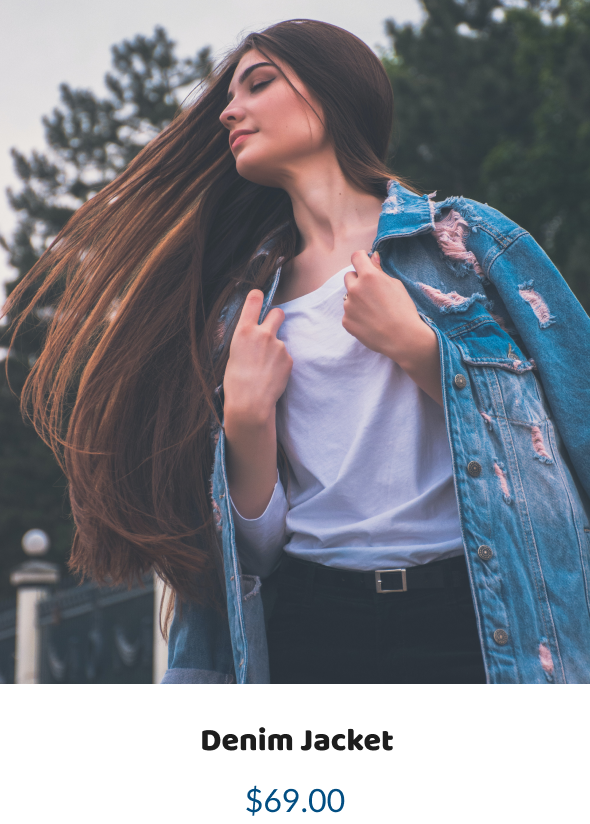
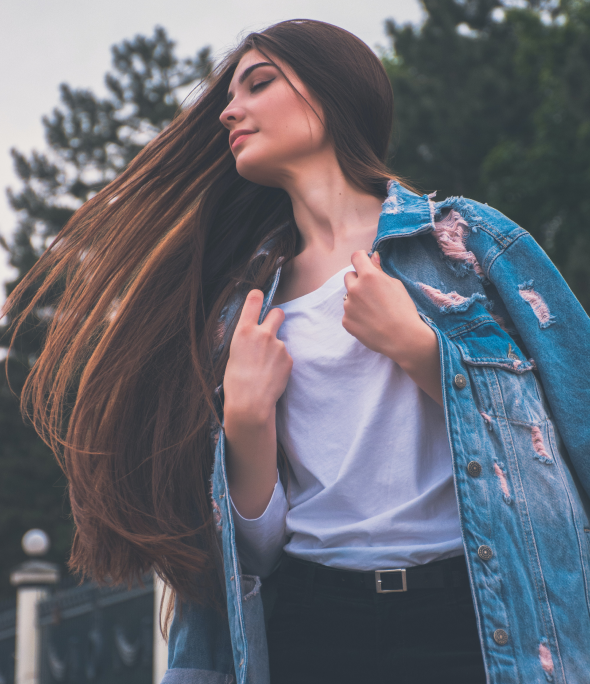
feat: consume the fake api

diff --git a/src/pages/home.tsx b/src/pages/home.tsx
@@ -8,9 +8,14 @@ import { Footer } from "../components/footer/footer";
 import { Baner } from "../components/baner/baner";
 import { Sidebar } from "../components/sidebar/sidebar";
 import { SectionComponent } from "../components/home/sectionComponent";
+import { Products } from "../components/products";
 
 const Home = () => {
   const [isOpen, setIsOpen] = useState<boolean>(false);
+
+  const firstEightProducts = Products.slice(0, 8); // pega os primeiro 8 produtos do array; ps: array com 12 produtos;
+
+  const lastFourProducts = Products.slice(8, 12); // pega os ultimos 4 produtos do array; ps: array com 12 produtos;
 
   return(
     <main onClick={() => setIsOpen(false)}>
@@ -42,46 +47,14 @@ const Home = () => {
         title="Discover NEW Arrivals"
         description="Recently added shirts!"
       >
-          <Card.Root>
-            <Card.Image />
-            <Card.Data/>
+
+        {firstEightProducts.map(item => (
+          <Card.Root key={item.id}>
+            <Card.Image src={item.image} alt={item.name} />
+            <Card.Data name={item.name} value={item.price} />
           </Card.Root>
+        ))}
           
-          <Card.Root>
-            <Card.Image />
-            <Card.Data/>
-          </Card.Root>
-          
-          <Card.Root>
-            <Card.Image />
-            <Card.Data/>
-          </Card.Root>
-          
-          <Card.Root>
-            <Card.Image />
-            <Card.Data/>
-          </Card.Root>
-          
-          <Card.Root>
-            <Card.Image />
-            <Card.Data/>
-          </Card.Root>
-          
-          <Card.Root>
-            <Card.Image />
-            <Card.Data/>
-          </Card.Root>
-          
-          <Card.Root>
-            <Card.Image />
-            <Card.Data/>
-          </Card.Root>
-          
-          <Card.Root>
-            <Card.Image />
-            <Card.Data/>
-          </Card.Root>
-        
       </SectionComponent>
 
         <Information.Root>
@@ -121,25 +94,14 @@ const Home = () => {
         title="Top Sellers"
         description="Browse our top-selling products"
       >
-          <Card.Root>
-            <Card.Image />
-            <Card.Data/>
-          </Card.Root>
-          
-          <Card.Root>
-            <Card.Image />
-            <Card.Data/>
-          </Card.Root>
-          
-          <Card.Root>
-            <Card.Image />
-            <Card.Data/>
-          </Card.Root>
-          
-          <Card.Root>
-            <Card.Image />
-            <Card.Data/>
-          </Card.Root>
+        {lastFourProducts.map(item => {
+          return (
+            <Card.Root key={item.id}>
+              <Card.Image src={item.image} alt={item.name} />
+              <Card.Data name={item.name} value={item.price} />
+            </Card.Root>
+          )
+        })}
 
       </SectionComponent>
         

diff --git a/src/components/products.ts b/src/components/products.ts
@@ -11,7 +11,14 @@ import product10 from "../../public/products/product10.png";
 import product11 from "../../public/products/product11.png";
 import product12 from "../../public/products/product12.png";
 
-const Products = [
+interface ProductsProps {
+  id: number;
+  name: string;
+  price: number,
+  image: string;
+}
+
+const Products: ProductsProps[] = [
   {
     id: 1,
     name: "Plain White Shirt",

diff --git a/src/components/Card-Item/image.tsx b/src/components/Card-Item/image.tsx
@@ -6,8 +6,8 @@ interface ImageProps extends ImgHTMLAttributes<HTMLImageElement> {
 }
 
 const Image = ({ src, alt }: ImageProps) => {
-  return <img src="https://www.next.com.az/nxtcms/resource/blob/5821504/ee0fc6a294be647924fa5f5e7e3df8e9/hoodies-data.jpg"
-    alt="Example image"
+  return <img src={ src }
+    alt={ alt }
     className=" w-full h-full object-cover object-top" />
 }
 

diff --git a/src/components/Card-Item/data.tsx b/src/components/Card-Item/data.tsx
@@ -1,8 +1,13 @@
-const DataItem = () => {
+interface DataItemProps {
+  name: string,
+  value: number,
+}
+
+const DataItem = ({ name, value }: DataItemProps) => {
   return (
     <>
-      <span><p>Plain White Shirt</p></span>
-      <span><p>$29.00</p></span>
+      <span><p>{ name }</p></span>
+      <span><p>${ value }</p></span>
     </>
   )
 }
